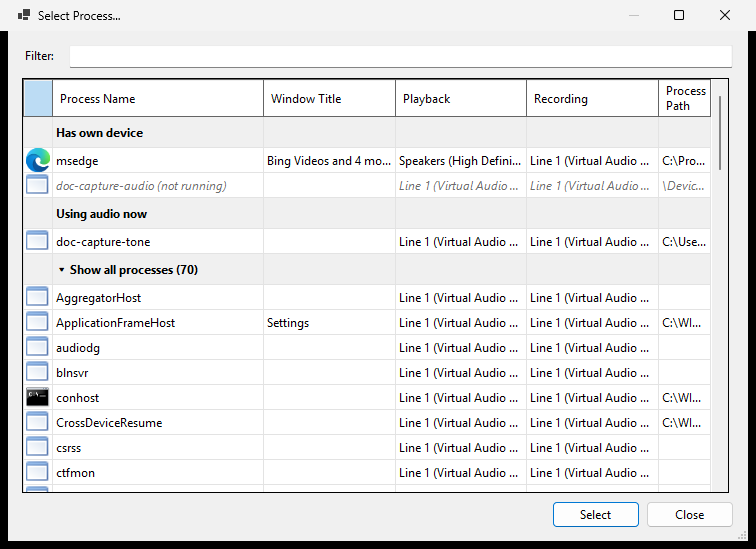
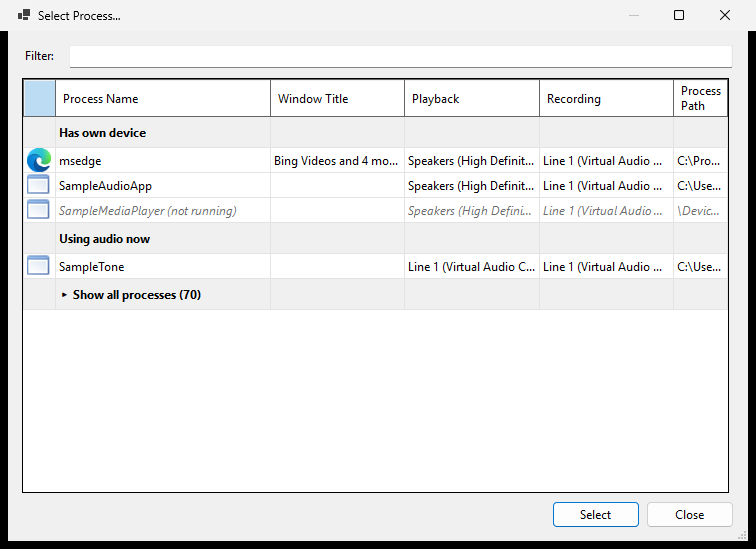
docs(app-rules): document assignment rules and windows assignments section
Describe the Automatic rule selector Processes (dynamic) vs App
assignment - Windows keeps applying the route while SoundSwitch is
closed, deleting or disabling the rule restores the default - the
read-only Windows assignments rows in the App Rules list (one-way sync
from Windows own per-app page, no duplicate rows for rule-managed apps,
rules re-assert on Windows-side edits and deleting the rule is the way
out), and the picker's search: typing expands the collapsed all-processes
group and clearing the filter collapses it again. Screenshots staged
through the doc-capture harness with neutral sample apps; the capture
script now prefers the dialog carrying the requested control when an
editor auto-opens its first child dialog.

diff --git a/website/src/usage/app-rules/README.md b/website/src/usage/app-rules/README.md
@@ -16,7 +16,7 @@ Each rule targets an application (and optionally a window title) and owns an ord
 | **Automatic** | Applies the rule's first device pair whenever the application starts or comes to the foreground. | Hands-free routing that should always be active. |
 | **Hotkey** | Does nothing automatically. Pressing the rule's hotkey applies the next device pair to the running application. | Cycling an application between several devices on demand. |
 
-The modes are exclusive. A rule is either Automatic or Hotkey, never both. See [Automatic mode](./automatic.md) and [Hotkey mode](./hotkey.md) for the details.
+The modes are exclusive. A rule is either Automatic or Hotkey, never both. See [Automatic mode](./automatic.md) and [Hotkey mode](./hotkey.md) for the details. An Automatic rule can additionally be *enforced* as an **App assignment**, which writes the route into Windows' own app audio settings so it survives SoundSwitch being closed — see [Enforced by](./automatic.md#enforced-by).
 
 ## How it works
 
@@ -46,10 +46,18 @@ The App Rules tab lists every rule with these columns:
 | **Window Title** | The window title pattern, or blank for any window. |
 | **Playback** | The first pair's playback device. |
 | **Recording** | The first pair's recording device. |
-| **Mode** | `Automatic` or `Hotkey`. Hotkey rules with several pairs also show the pair count, for example `Hotkey (3)`. |
+| **Mode** | `Automatic`, `Hotkey`, or `Assignment` (an Automatic rule enforced as an [app assignment](./automatic.md#enforced-by)). Hotkey rules with several pairs also show the pair count, for example `Hotkey (3)`. |
 | **Hotkey** | The rule's global shortcut, for Hotkey rules. |
 
 Hover a row to see every device pair in a tooltip.
+
+## Windows assignments
+
+Above your own rules, the list also shows — dimmed — the applications that Windows itself has routed to a specific device through its own per-app audio settings. SoundSwitch does not control these rows; they come straight from the same per-app store Windows Settings writes to:
+
+- **Read-only.** There is nothing to edit on a Windows assignment row. Change it in Windows' per-app audio settings, not in SoundSwitch.
+- **No duplicates.** An application covered by one of your rules shows up only as that rule's row, never again in this section — even when the rule also writes an assignment.
+- **Your rules win.** If an application managed by one of your rules is changed from Windows' side, the rule re-applies its pair the next time the application is seen. Deleting the rule is the way to stop managing that application.
 
 ## Rule options
 
@@ -69,11 +77,13 @@ Instead of one flat list of every process, the picker groups the entries:
 |-------|---------------|
 | **Has own device** | Applications that already have their own audio device assigned — through Windows' per-app device setting or one of your rules. Applications that are not currently running appear here too, dimmed and labelled with a *(not running)* suffix. They are still selectable, so you can create a rule for a closed application. |
 | **Using audio now** | Applications that have an active audio session but no device of their own yet. |
-| **Show all processes** | The full process list as before. Collapsed by default; click the header row to expand or collapse it. |
+| **Show all processes** | The full process list as before. Collapsed by default; click the header row to expand or collapse it. Typing in the filter box expands this group automatically so its matches are visible, and clearing the filter collapses it again. |
 
 The filter box searches all three groups.
 
 ![The process picker grouped by device assignment](/images/AppRules%20Process%20Picker.png)
+
+![The process picker while filtering](/images/AppRules%20Process%20Picker%20Search.png)
 
 ## Creating a rule
 

diff --git a/website/src/usage/app-rules/automatic.md b/website/src/usage/app-rules/automatic.md
@@ -23,9 +23,28 @@ Use Automatic mode when an application should **always** use the same audio devi
 3. Optionally narrow the rule with a **Window Title** pattern.
 4. Choose **Automatic** as the mode.
 5. Select a **Playback** device, a **Recording** device, or both. At least one is required.
-6. Click **Save**.
+6. Pick **Enforced by** (see below). The default is fine for most setups.
+7. Click **Save**.
 
 ![Add an App Rule in Automatic mode](/images/AppRules%20Add.png)
+
+## Enforced by
+
+Automatic rules get a choice of **how** the routing is kept in place:
+
+| Enforced by | What happens |
+|-------------|--------------|
+| **Processes (dynamic)** | The default. SoundSwitch keeps watching for the application and applies its device pair on every sighting while SoundSwitch runs. |
+| **App assignment** | SoundSwitch writes the route once into Windows' own per-app audio settings. **Windows keeps applying it from then on, even when SoundSwitch is closed**, and on every future launch of the application. |
+
+![Choosing App assignment in the rule editor](/images/AppRules%20Add%20Assignment.png)
+
+Behaviour of an **App assignment** rule:
+
+- The assignment is stored **per application, not per process**: it uses the exact executable you pick, not a pattern.
+- **Deleting or disabling the rule restores the default.** A running application returns to the system default immediately; an application that is closed keeps its assignment until its next launch.
+- Requires a **concrete Process Path** — pick the application with the **...** button. Window Title patterns are not supported, and the option stays disabled until a specific application is picked.
+- Editing the rule's device pair updates the assignment the next time the application is seen (immediately if it is running).
 
 ## Example
 
